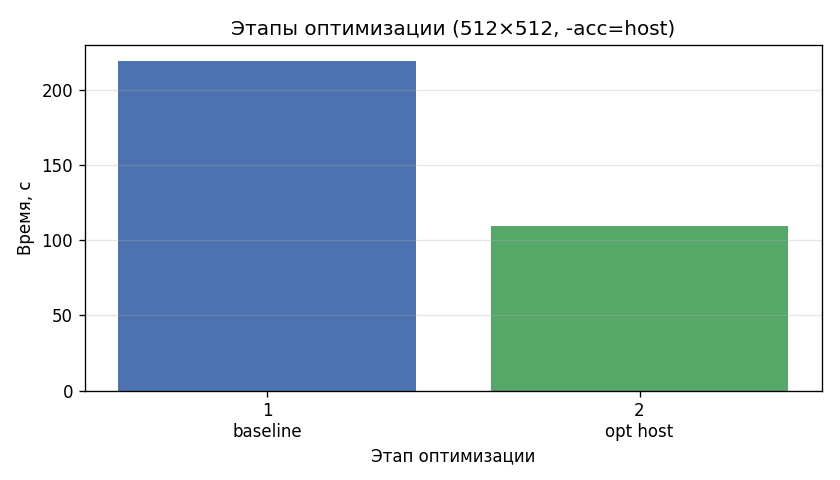
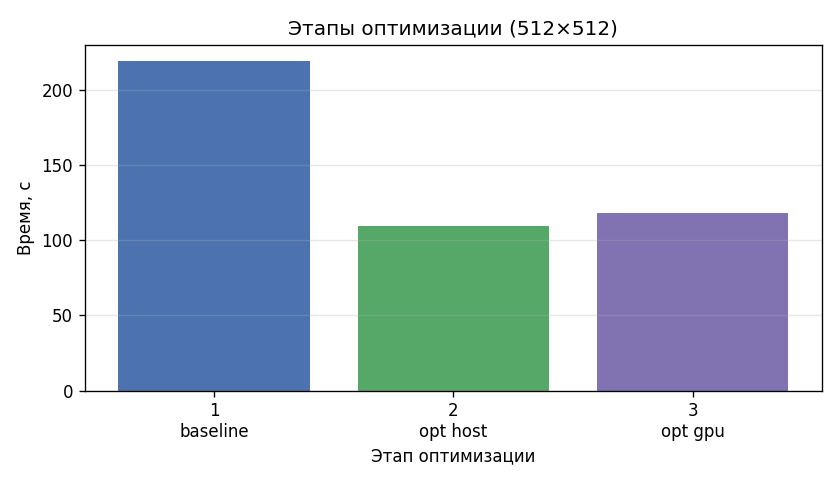
transfer for windows

diff --git a/task 6/scripts/plot_report_charts.py b/task 6/scripts/plot_report_charts.py
@@ -15,6 +15,16 @@ def load_host_csv():
     return base, opt
 
 
+def load_gpu_csv():
+    gpu_csv = RESULTS / "timing_gpu.csv"
+    if not gpu_csv.exists():
+        return {}, {}
+    rows = list(csv.DictReader(open(gpu_csv)))
+    base = {int(r["N"]): float(r["time_sec"]) for r in rows if r["variant"] == "base"}
+    opt = {int(r["N"]): float(r["time_sec"]) for r in rows if r["variant"] == "opt"}
+    return base, opt
+
+
 def main():
     try:
         import matplotlib.pyplot as plt
@@ -23,16 +33,21 @@ def main():
         return
 
     base, opt = load_host_csv()
+    gpu_base, gpu_opt = load_gpu_csv()
     sizes = sorted(base.keys())
 
-    # Optimization stages (512x512)
+    # Optimization stages (512x512) from benchmark CSVs:
+    # 1) host baseline, 2) host optimized, 3) gpu optimized
     fig, ax = plt.subplots(figsize=(7, 4))
-    stages = ["1\nbaseline", "2\nopt host"]
-    times = [base[512], opt[512]]
-    ax.bar(stages, times, color=["#4c72b0", "#55a868"])
+    stages = ["1\nbaseline", "2\nopt host", "3\nopt gpu"]
+    times = [base.get(512), opt.get(512), gpu_opt.get(512)]
+    stages_times = [(s, t) for s, t in zip(stages, times) if t is not None]
+    stages = [s for s, _ in stages_times]
+    times = [t for _, t in stages_times]
+    ax.bar(stages, times, color=["#4c72b0", "#55a868", "#8172b2"][: len(stages)])
     ax.set_ylabel("Время, с")
     ax.set_xlabel("Этап оптимизации")
-    ax.set_title("Этапы оптимизации (512×512, -acc=host)")
+    ax.set_title("Этапы оптимизации (512×512)")
     ax.grid(axis="y", alpha=0.3)
     fig.tight_layout()
     fig.savefig(RESULTS / "chart_optimization_stages.png", dpi=120)
